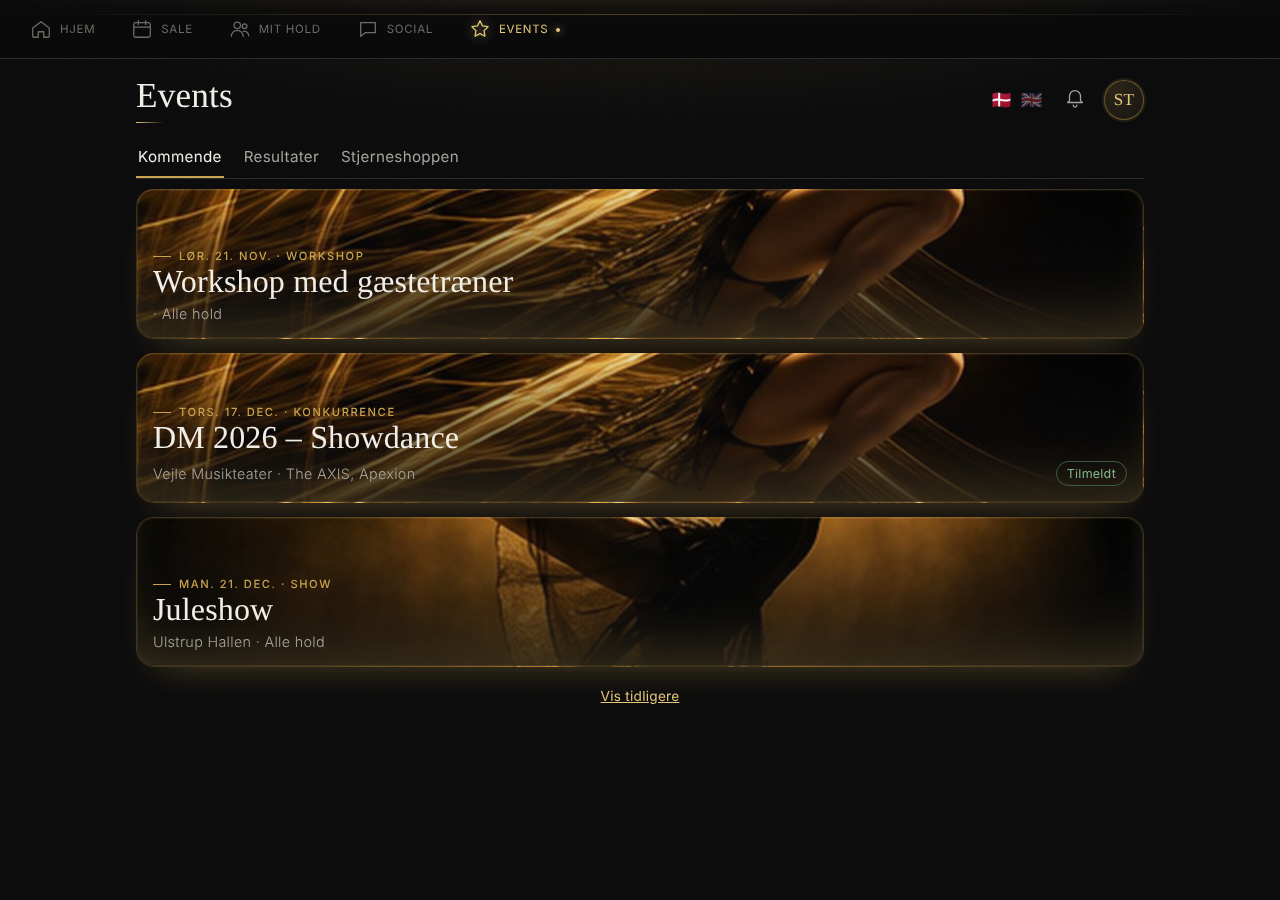
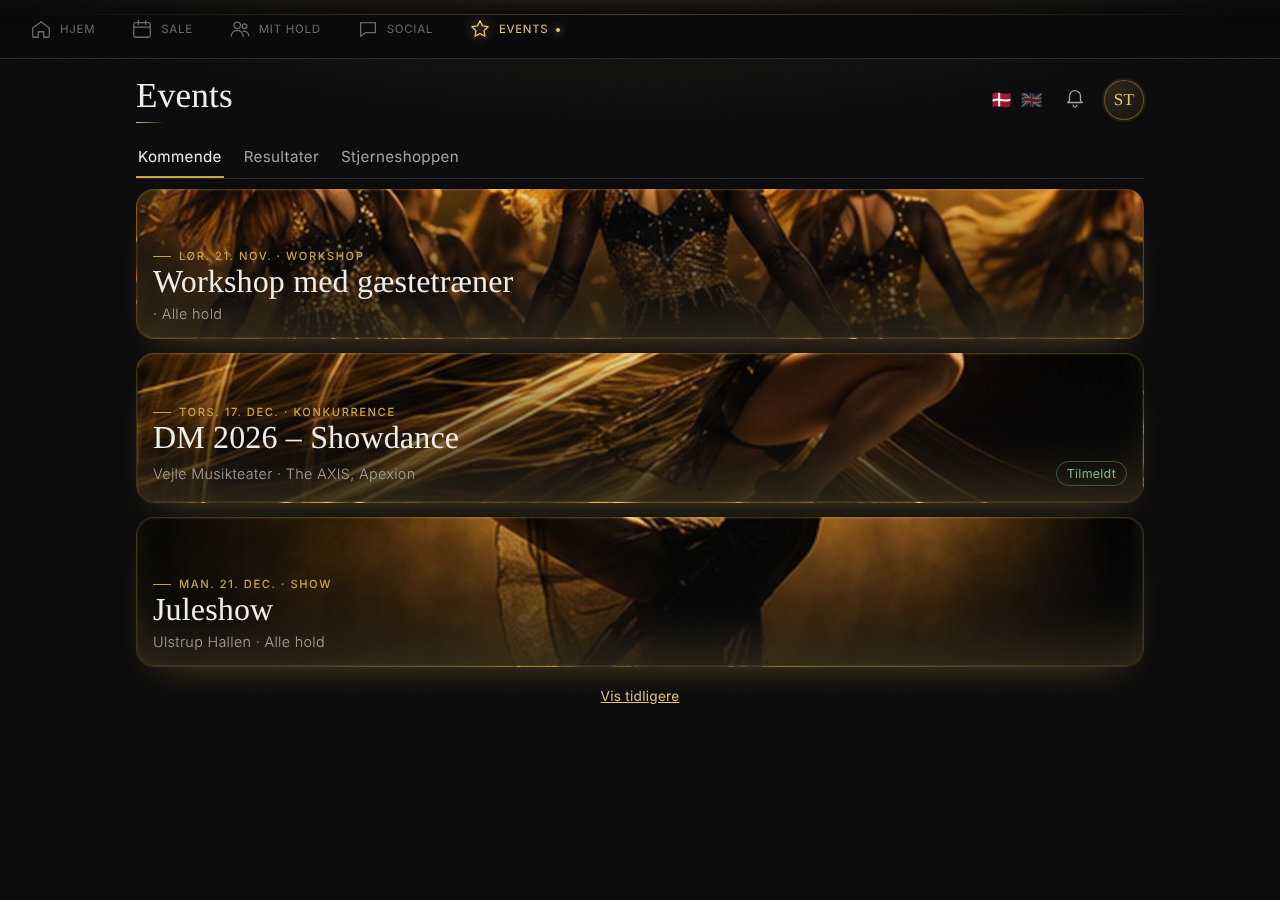
Image catalogue: admin uploads (folders) via Admin → Billedkatalog and straight from the picker; uploads stored in bucket public + catalog_image (0014); smoke11
Claude-Session: https://claude.ai/code/session_01GGpukzb1UrCDBdg1Js3mqC

Changed region(s): [[0.0938, 0.1867, 0.9062, 0.3733]]

diff --git a/src/domain/llds/admin/Catalog.tsx b/src/domain/llds/admin/Catalog.tsx
@@ -1,0 +1,67 @@
+import { useCallback, useEffect, useRef, useState } from "react";
+import { useTranslation } from "react-i18next";
+import { api, type CatalogEntry } from "@/core/api";
+import { Sheet, Toast } from "../components/Sheet";
+import { CATALOG, catalogUrl } from "../lib/catalog";
+
+/** Admin → Billedkatalog: the school's own images in folders (upload, rename folder, delete) + the bundled illustrations (read-only). */
+export function CatalogAdmin() {
+  const { t } = useTranslation();
+  const [own, setOwn] = useState<CatalogEntry[]>([]);
+  const [folder, setFolder] = useState<string | null>(null);
+  const [newFolder, setNewFolder] = useState("");
+  const [rename, setRename] = useState<string | null>(null); const [renameTo, setRenameTo] = useState("");
+  const [open, setOpen] = useState<CatalogEntry | null>(null);
+  const [busy, setBusy] = useState(false);
+  const [toast, setToast] = useState<string | null>(null); const say = (m: string) => { setToast(m); setTimeout(() => setToast(null), 2600); };
+  const fileRef = useRef<HTMLInputElement>(null);
+  const load = useCallback(async () => setOwn(await api.listCatalog()), []);
+  useEffect(() => { void load(); }, [load]);
+  const folders = [...new Set(own.map((o) => o.folder))];
+  const target = folder ?? newFolder.trim() ?? "";
+  const upload = async (files: FileList | null) => {
+    if (!files?.length) return; const list = Array.from(files); const f = (folder ?? newFolder.trim()) || t("catalog.ownFolder"); setBusy(true);
+    try { await api.uploadCatalog(list, f); setNewFolder(""); setFolder(f); await load(); say(t("catalog.uploaded", { n: list.length, folder: f })); } finally { setBusy(false); }
+  };
+  const shown = folder ? own.filter((o) => o.folder === folder) : own;
+  return (
+    <section className="screen">
+      <header className="topbar"><h1 className="display">{t("catalog.adminTitle")}</h1></header>
+      <p className="muted small">{t("catalog.adminSub")}</p>
+      <div className="chips" data-testid="catalog-folders">
+        <button className={"chip" + (folder === null ? " on" : "")} onClick={() => setFolder(null)}>{t("catalog.all")} ({own.length})</button>
+        {folders.map((f) => <button key={f} className={"chip" + (folder === f ? " on" : "")} onClick={() => setFolder(f)}>{f} ({own.filter((o) => o.folder === f).length})</button>)}
+      </div>
+      <div className="card" style={{ gap: 10 }}>
+        <div className="row" style={{ gap: 8, flexWrap: "wrap" }}>
+          {folder === null && <input placeholder={t("catalog.folderName")} value={newFolder} onChange={(e) => setNewFolder(e.target.value)} style={{ flex: 1, minWidth: 160 }} data-testid="catalog-folder-input" />}
+          <button className="cta" disabled={busy} onClick={() => fileRef.current?.click()} data-testid="catalog-admin-upload">{busy ? "…" : t("catalog.uploadTo", { folder: target || t("catalog.ownFolder") })}</button>
+          {folder && <button className="ghost small" onClick={() => { setRename(folder); setRenameTo(folder); }}>{t("catalog.rename")}</button>}
+        </div>
+        <input ref={fileRef} type="file" accept="image/*" multiple hidden onChange={(e) => { void upload(e.target.files); e.target.value = ""; }} />
+      </div>
+      <div className="imgpick" style={{ gridTemplateColumns: "repeat(auto-fill,minmax(110px,1fr))" }} data-testid="catalog-grid">
+        {shown.map((o) => <button key={o.id} className="ip" style={{ backgroundImage: `url(${o.url})` }} onClick={() => setOpen(o)} title={o.title ?? ""}><small>{o.title ?? ""}<br /><span style={{ opacity: .7 }}>{o.folder}</span></small></button>)}
+      </div>
+      {!own.length && <p className="muted small">{t("catalog.empty")}</p>}
+      {folder === null && (
+        <div className="sec"><h2>{t("catalog.bundled")}</h2><p className="tiny">{t("catalog.bundledHint")}</p>
+          <div className="imgpick" style={{ gridTemplateColumns: "repeat(auto-fill,minmax(110px,1fr))" }}>{CATALOG.map((c) => <div key={c.key} className="ip" style={{ backgroundImage: `url(${catalogUrl(c.key)})` }}><small>{c.title}</small></div>)}</div>
+        </div>
+      )}
+      {open && (
+        <Sheet onClose={() => setOpen(null)} eyebrow={open.folder} title={open.title ?? ""}>
+          <img src={open.url} alt="" style={{ width: "100%", borderRadius: 12 }} />
+          <button className="ghost danger" onClick={async () => { await api.deleteCatalog(open.id); setOpen(null); await load(); say(t("common.deleted")); }}>{t("catalog.delete")}</button>
+        </Sheet>
+      )}
+      {rename && (
+        <Sheet onClose={() => setRename(null)} eyebrow={t("catalog.rename")} title={rename}>
+          <input value={renameTo} onChange={(e) => setRenameTo(e.target.value)} />
+          <button className="cta" disabled={!renameTo.trim()} onClick={async () => { await api.renameCatalogFolder(rename, renameTo.trim()); setFolder(renameTo.trim()); setRename(null); await load(); }}>{t("common.save")}</button>
+        </Sheet>
+      )}
+      <Toast msg={toast} />
+    </section>
+  );
+}

diff --git a/src/domain/llds/admin/Admin.tsx b/src/domain/llds/admin/Admin.tsx
@@ -3,6 +3,7 @@ import { useTranslation } from "react-i18next";
 import { api, type Booking, type Member, type Message, type Order, type Product, type PunchCard, type PunchCardType, type Report, type Role, type Session, type Team, type TeamInput } from "@/core/api";
 import { Events } from "../screens/Events";
 import { ImportPhotos } from "./ImportPhotos";
+import { CatalogAdmin } from "./Catalog";
 import { MessageComposer, MessageSheet } from "../components/Messages";
 import { ago } from "../lib/time";
 import { AdminUsers } from "./Users";
@@ -13,7 +14,7 @@ import { ImagePicker } from "../components/ImagePicker";
 import { CATALOG, catalogUrl } from "../lib/catalog";
 import { addDays, DAY_LONG, hm, mondayOf, startOfDay } from "../lib/time";
 
-type Page = "menu" | "users" | "members" | "teams" | "season" | "bookings" | "messages" | "reports" | "events" | "shop" | "punch" | "import";
+type Page = "menu" | "users" | "members" | "teams" | "season" | "bookings" | "messages" | "reports" | "events" | "shop" | "punch" | "import" | "catalog";
 const CATS = ["mini", "kids", "junior", "adult", "mixed"] as const;
 
 /** Admin: the one place Line runs the school from. Everything else in the app reads what she sets here. */
@@ -37,11 +38,13 @@ export function Admin() {
   if (page === "shop") return <Back onBack={() => setPage("menu")}><ShopAdmin /></Back>;
   if (page === "punch") return <Back onBack={() => setPage("menu")}><PunchAdmin /></Back>;
   if (page === "import") return <Back onBack={() => setPage("menu")}><ImportPhotos /></Back>;
+  if (page === "catalog") return <Back onBack={() => setPage("menu")}><CatalogAdmin /></Back>;
   const items: [Page, string, string, number][] = [
     ["users", t("admin.users"), t("admin.usersSub"), counts.pending], ["members", t("admin.members"), t("admin.membersSub"), 0], ["teams", t("admin.teams"), t("admin.teamsSub"), 0],
     ["season", t("admin.season"), t("admin.seasonSub"), counts.subs], ["bookings", t("admin.bookings"), t("admin.bookingsSub"), counts.bookings],
     ["messages", t("admin.messages"), t("admin.messagesSub"), 0], ["reports", t("admin.reports"), t("admin.reportsSub"), counts.reports],
     ["events", t("events.title"), t("admin.eventsSub"), 0], ["shop", t("admin.shop"), t("admin.shopSub"), counts.orders], ["punch", t("punch.title"), t("admin.punchSub"), counts.cards],
+    ["catalog", t("catalog.adminTitle"), t("catalog.adminSub"), 0],
     ["import", t("admin.importPhotos"), t("admin.importSub"), 0],
   ];
   return (
@@ -132,7 +135,7 @@ function TeamEditor({ team, onClose, onSaved }: { team: Team | null; onClose: ()
       <Toggle k="parents_see_video" label={t("admin.parentsSeeVideo")} hint={t("admin.parentsSeeVideoHint")} />
       <Toggle k="punch_card_open" label={t("team.punchOpen")} hint={t("admin.punchHint")} />
       <label className="toggle"><span>{t("admin.teamPublic")}<div className="tiny">{t("admin.teamPublicHint")}</div></span><input type="checkbox" checked={f.visibility === "public"} onChange={(e) => setF({ ...f, visibility: e.target.checked ? "public" : "private" })} /></label>
-      <ImagePicker tag="team" value={f.cover_url?.startsWith("art/catalog/") ? f.cover_url.replace("art/catalog/", "").replace(/\.\w+$/, "") : null} onChange={(k) => setF({ ...f, cover_url: k ? `art/catalog/${CATALOG.find((c) => c.key === k)?.file}` : (team?.cover_url?.startsWith("art/catalog/") ? null : team?.cover_url ?? null) })} />
+      <ImagePicker tag="team" value={f.cover_url?.startsWith("art/catalog/") ? f.cover_url.replace("art/catalog/", "").replace(/\.\w+$/, "") : f.cover_url?.startsWith("http") && f.cover_url !== team?.cover_url ? f.cover_url : null} onChange={(k) => setF({ ...f, cover_url: !k ? (team?.cover_url?.startsWith("art/catalog/") ? null : team?.cover_url ?? null) : k.startsWith("http") ? k : `art/catalog/${CATALOG.find((c) => c.key === k)?.file}` })} />
       <label className="field"><span>{t("admin.teamDescription")}</span><textarea rows={3} value={f.description ?? ""} onChange={(e) => setF({ ...f, description: e.target.value })} placeholder={t("admin.teamDescriptionPh")} /></label>
       <div className="row"><button className="cta grow" disabled={!f.name.trim()} onClick={async () => { if (team) await api.updateTeam(team.id, f); else await api.createTeam(f); onSaved(); }}>{t("common.save")}</button>
         {team && <button className="ghost danger" onClick={async () => { await api.updateTeam(team.id, { archived: true }); onSaved(); }}>{t("admin.archive")}</button>}</div>

diff --git a/src/domain/llds/components/ImagePicker.tsx b/src/domain/llds/components/ImagePicker.tsx
@@ -1,17 +1,42 @@
+import { useEffect, useRef, useState } from "react";
 import { useTranslation } from "react-i18next";
+import { api, type CatalogEntry } from "@/core/api";
+import { useAuth } from "@/core/auth";
 import { CATALOG, catalogFor, catalogUrl } from "../lib/catalog";
 
-/** Grid of catalogue images; value = catalogue key (or null = automatic). */
-export function ImagePicker({ value, onChange, tag, allowNone = true }: { value: string | null; onChange: (key: string | null) => void; tag: "event" | "team" | "post"; allowNone?: boolean }) {
+/** Grid of catalogue images: bundled illustrations + the school's own uploads (by folder). value = bundled key or image URL; null = automatic.
+ * Admins can upload straight from here – the file lands in the catalogue (folder "Egne billeder" or the chosen folder) and is selected. */
+export function ImagePicker({ value, onChange, tag, allowNone = true }: { value: string | null; onChange: (ref: string | null) => void; tag: "event" | "team" | "post"; allowNone?: boolean }) {
   const { t } = useTranslation();
-  const list = catalogFor(tag).length ? catalogFor(tag) : CATALOG;
+  const isAdmin = useAuth((s) => !!s.me?.person.is_admin);
+  const [own, setOwn] = useState<CatalogEntry[]>([]);
+  const [folder, setFolder] = useState<string>("");
+  const [busy, setBusy] = useState(false);
+  const fileRef = useRef<HTMLInputElement>(null);
+  useEffect(() => { void api.listCatalog().then(setOwn).catch(() => setOwn([])); }, []);
+  const bundled = catalogFor(tag).length ? catalogFor(tag) : CATALOG;
+  const folders = [...new Set(own.map((o) => o.folder))];
+  const shown = folder ? own.filter((o) => o.folder === folder) : own;
+  const upload = async (files: FileList | null) => {
+    if (!files?.length) return; const list = Array.from(files); setBusy(true);
+    try { const added = await api.uploadCatalog(list, folder || t("catalog.ownFolder")); setOwn([...added, ...own]); onChange(added[0].url); } finally { setBusy(false); }
+  };
   return (
     <div className="field"><span>{t("catalog.pick")}</span>
+      {(folders.length > 0 || isAdmin) && (
+        <div className="chips" style={{ marginTop: 4 }}>
+          <button className={"chip" + (!folder ? " on" : "")} onClick={() => setFolder("")}>{t("catalog.all")}</button>
+          {folders.map((f) => <button key={f} className={"chip" + (folder === f ? " on" : "")} onClick={() => setFolder(f)}>{f}</button>)}
+        </div>
+      )}
       <div className="imgpick" data-testid="image-picker">
         {allowNone && <button className={"ip" + (value == null ? " on" : "")} onClick={() => onChange(null)}><span className="auto">✦</span><small>{t("catalog.auto")}</small></button>}
-        {list.map((c) => <button key={c.key} className={"ip" + (value === c.key ? " on" : "")} style={{ backgroundImage: `url(${catalogUrl(c.key)})` }} onClick={() => onChange(c.key)} title={c.title} aria-label={c.title} data-testid="image-option"><small>{c.title}</small></button>)}
+        {isAdmin && <button className="ip upload" onClick={() => fileRef.current?.click()} disabled={busy} data-testid="catalog-upload"><span className="auto">{busy ? "…" : "＋"}</span><small>{t("catalog.upload")}</small></button>}
+        {shown.map((o) => <button key={o.id} className={"ip" + (value === o.url ? " on" : "")} style={{ backgroundImage: `url(${o.url})` }} onClick={() => onChange(o.url)} title={o.title ?? ""} data-testid="image-option"><small>{o.title ?? o.folder}</small></button>)}
+        {!folder && bundled.map((c) => <button key={c.key} className={"ip" + (value === c.key ? " on" : "")} style={{ backgroundImage: `url(${catalogUrl(c.key)})` }} onClick={() => onChange(c.key)} title={c.title} aria-label={c.title} data-testid="image-option"><small>{c.title}</small></button>)}
       </div>
-      <div className="tiny">{t("catalog.hint", { n: list.length })}</div>
+      <input ref={fileRef} type="file" accept="image/*" multiple hidden onChange={(e) => { void upload(e.target.files); e.target.value = ""; }} />
+      <div className="tiny">{t("catalog.hint", { n: bundled.length + own.length })}</div>
     </div>
   );
 }

diff --git a/src/core/api/mock-shop.ts b/src/core/api/mock-shop.ts
@@ -1,11 +1,11 @@
-import type { PersonBadge, Event, EventInput, EventSignup, Membership, Milestone, Notification, Order, OrderLine, Person, Product, PunchCard, PunchCardType, Team } from "./types";
+import type { CatalogEntry, PersonBadge, Event, EventInput, EventSignup, Membership, Milestone, Notification, Order, OrderLine, Person, Product, PunchCard, PunchCardType, Team } from "./types";
 import { downscaleImage, fileToDataUrl } from "./image";
 import { BADGES, monthKey, totalBadge } from "@/domain/llds/lib/badges";
 
 /** Phase-4 half of the mock: events, shop, punch cards, milestones, notifications. */
 export type ShopState = {
   events: Event[]; signups: EventSignup[]; products: Product[]; orders: Order[]; orderSeq: number;
-  cardTypes: PunchCardType[]; cards: PunchCard[]; punches: { card_id: string; session_id: string }[]; milestones: Milestone[]; notifications: Notification[]; badges?: PersonBadge[];
+  cardTypes: PunchCardType[]; cards: PunchCard[]; punches: { card_id: string; session_id: string }[]; milestones: Milestone[]; notifications: Notification[]; badges?: PersonBadge[]; catalog?: CatalogEntry[];
 };
 const id = () => Math.random().toString(36).slice(2, 10);
 const now = () => new Date().toISOString();
@@ -108,6 +108,16 @@ export function shopOps(get: () => { Y: ShopState; persons: Person[]; membership
       const g = get(); const me = g.me()!; const m: Milestone = { id: "ms-" + id(), person_id: personId, person_name: name(personId), title, reached_on: now().slice(0, 10), team_id: teamId, team_name: g.teams.find((t) => t.id === teamId)?.name ?? null, given_by_name: name(me.id), created_at: now() };
       g.Y.milestones.push(m); for (const pid of family(personId)) g.notify(pid, "milestone", "Ny milepæl 🏅", title, { milestone_id: m.id }); g.save(); g.emit();
     },
+    /* image catalogue */
+    async listCatalog() { return (get().Y.catalog ?? []).slice().sort((a, b) => a.folder.localeCompare(b.folder) || b.created_at.localeCompare(a.created_at)); },
+    async uploadCatalog(files: File[], folder: string) {
+      const g = get(); if (!g.Y.catalog) g.Y.catalog = []; const out: CatalogEntry[] = [];
+      for (const f of files) { const e: CatalogEntry = { id: "cat-" + id(), folder, title: f.name.replace(/\.\w+$/, ""), url: await fileToDataUrl(await downscaleImage(f, 800, 0.8)), created_at: now() }; g.Y.catalog.push(e); out.push(e); }
+      g.save(); g.emit(); return out;
+    },
+    async renameCatalogFolder(from: string, to: string) { const g = get(); for (const e of g.Y.catalog ?? []) if (e.folder === from) e.folder = to; g.save(); g.emit(); },
+    async deleteCatalog(cid: string) { const g = get(); g.Y.catalog = (g.Y.catalog ?? []).filter((e) => e.id !== cid); g.save(); g.emit(); },
+
     /* emblems */
     async listBadges() { return BADGES.map((b, i) => ({ id: "b-" + b.key, key: b.key, name: b.name, emoji: b.emoji, description: b.desc, kind: b.kind, monthly: !!b.monthly, sort: i })); },
     async listPersonBadges(filter?: { personId?: string; teamId?: string }) {

diff --git a/src/core/api/supabase-shop.ts b/src/core/api/supabase-shop.ts
@@ -1,4 +1,4 @@
-import type { Badge, PersonBadge, SupabaseClient } from "@supabase/supabase-js";
+import type { CatalogEntry, Badge, PersonBadge, SupabaseClient } from "@supabase/supabase-js";
 import type { Event, EventInput, EventSignup, Milestone, Notification, Order, OrderLine, Product, PunchCard, PunchCardType } from "./types";
 import { downscaleImage } from "./image";
 
@@ -76,6 +76,24 @@ export function supabaseShop(sb: SupabaseClient, fail: Fail, schoolId: () => Pro
     },
     async giveMilestone(personId: string, title: string, teamId: string | null) { const { error } = await sb.from("milestone").insert({ person_id: personId, title, team_id: teamId, reached_on: new Date().toISOString().slice(0, 10), given_by: await myPersonId() }); fail(error); },
     async deleteMilestone(id: string) { const { error } = await sb.from("milestone").delete().eq("id", id); fail(error); },
+
+    /* image catalogue */
+    async listCatalog() {
+      const { data, error } = await sb.from("catalog_image").select("*").order("folder").order("created_at", { ascending: false }); fail(error);
+      return (data ?? []).map((r: { id: string; folder: string; title: string | null; storage_path: string; created_at: string }) => ({ id: r.id, folder: r.folder, title: r.title, url: pubUrl(r.storage_path)!, created_at: r.created_at }));
+    },
+    async uploadCatalog(files, folder) {
+      const sid = await schoolId(); const pid = await myPersonId(); const out: CatalogEntry[] = [];
+      for (const f of files) {
+        const path = `${schoolSlug}/catalog/${folder.replace(/[^\w\-æøåÆØÅ ]/g, "_")}/${crypto.randomUUID()}.jpg`;
+        const { error: ue } = await sb.storage.from("public").upload(path, await downscaleImage(f, 1600), { contentType: "image/jpeg" }); fail(ue);
+        const { data, error } = await sb.from("catalog_image").insert({ school_id: sid, folder, title: f.name.replace(/\.\w+$/, ""), storage_path: path, created_by: pid }).select("*").single(); fail(error);
+        out.push({ id: data.id, folder: data.folder, title: data.title, url: pubUrl(data.storage_path)!, created_at: data.created_at });
+      }
+      return out;
+    },
+    async renameCatalogFolder(from, to) { const { error } = await sb.from("catalog_image").update({ folder: to }).eq("folder", from); fail(error); },
+    async deleteCatalog(id) { const { data } = await sb.from("catalog_image").select("storage_path").eq("id", id).single(); if (data?.storage_path) await sb.storage.from("public").remove([data.storage_path]); const { error } = await sb.from("catalog_image").delete().eq("id", id); fail(error); },
 
     /* emblems */
     async listBadges() { const { data, error } = await sb.from("badge").select("*").eq("active", true).order("sort"); fail(error); return (data ?? []) as Badge[]; },

diff --git a/src/domain/llds/lib/catalog.ts b/src/domain/llds/lib/catalog.ts
@@ -2,7 +2,8 @@ import list from "./catalog.generated.json";
 /** Image catalogue (public/art/catalog) – AI illustrations in the studio's black/gold look, picked by admins for teams, events and posts. */
 export type CatalogImage = { key: string; file: string; title: string; tags: string[] };
 export const CATALOG: CatalogImage[] = list as CatalogImage[];
-export const catalogUrl = (key: string | null | undefined) => { const c = key ? CATALOG.find((x) => x.key === key) : null; return c ? `${import.meta.env.BASE_URL}art/catalog/${c.file}` : null; };
+/** ref = bundled key ("light-trails") or a full URL of an uploaded catalogue image */
+export const catalogUrl = (ref: string | null | undefined) => { if (!ref) return null; if (/^(https?:|data:|blob:)/.test(ref)) return ref; const c = CATALOG.find((x) => x.key === ref); return c ? `${import.meta.env.BASE_URL}art/catalog/${c.file}` : null; };
 /** resolve an external or catalogue-relative image reference (team.cover_url may be "art/catalog/x.jpg") */
 export const resolveImage = (ref: string | null | undefined) => (!ref ? null : ref.startsWith("http") || ref.startsWith("data:") || ref.startsWith("blob:") ? ref : `${import.meta.env.BASE_URL}${ref.replace(/^\//, "")}`);
 export const catalogFor = (tag: "event" | "team" | "post") => CATALOG.filter((c) => c.tags.includes(tag));

diff --git a/src/core/api/types.ts b/src/core/api/types.ts
@@ -299,3 +299,12 @@ export interface Api {
   giveBadge(personId: string, badgeId: string, teamId: string | null, note?: string): Promise<void>;
   removeBadge(id: string): Promise<void>;
 }
+
+/* ---------------- image catalogue (admin uploads, in folders) ---------------- */
+export type CatalogEntry = { id: string; folder: string; title: string | null; url: string; created_at: string };
+export interface Api {
+  listCatalog(): Promise<CatalogEntry[]>;
+  uploadCatalog(files: File[], folder: string): Promise<CatalogEntry[]>;
+  renameCatalogFolder(from: string, to: string): Promise<void>;
+  deleteCatalog(id: string): Promise<void>;
+}

diff --git a/src/styles.css b/src/styles.css
@@ -316,3 +316,5 @@ button.cta { box-shadow:0 10px 26px -12px rgba(201,162,74,.7); }
 .tour-card.bottom, .tour-card.top { position:fixed; left:14px; right:14px; width:auto; margin:0 auto; }
 .tour-card h3 { font-family:var(--display); font-size:1.4rem; margin:0; }
 .tour-card .cta.small { padding:10px 14px; }
+.imgpick .ip.upload { border:1px dashed rgba(201,162,74,.55); background:var(--card); }
+.imgpick .ip.upload .auto { font-size:1.6rem; }
